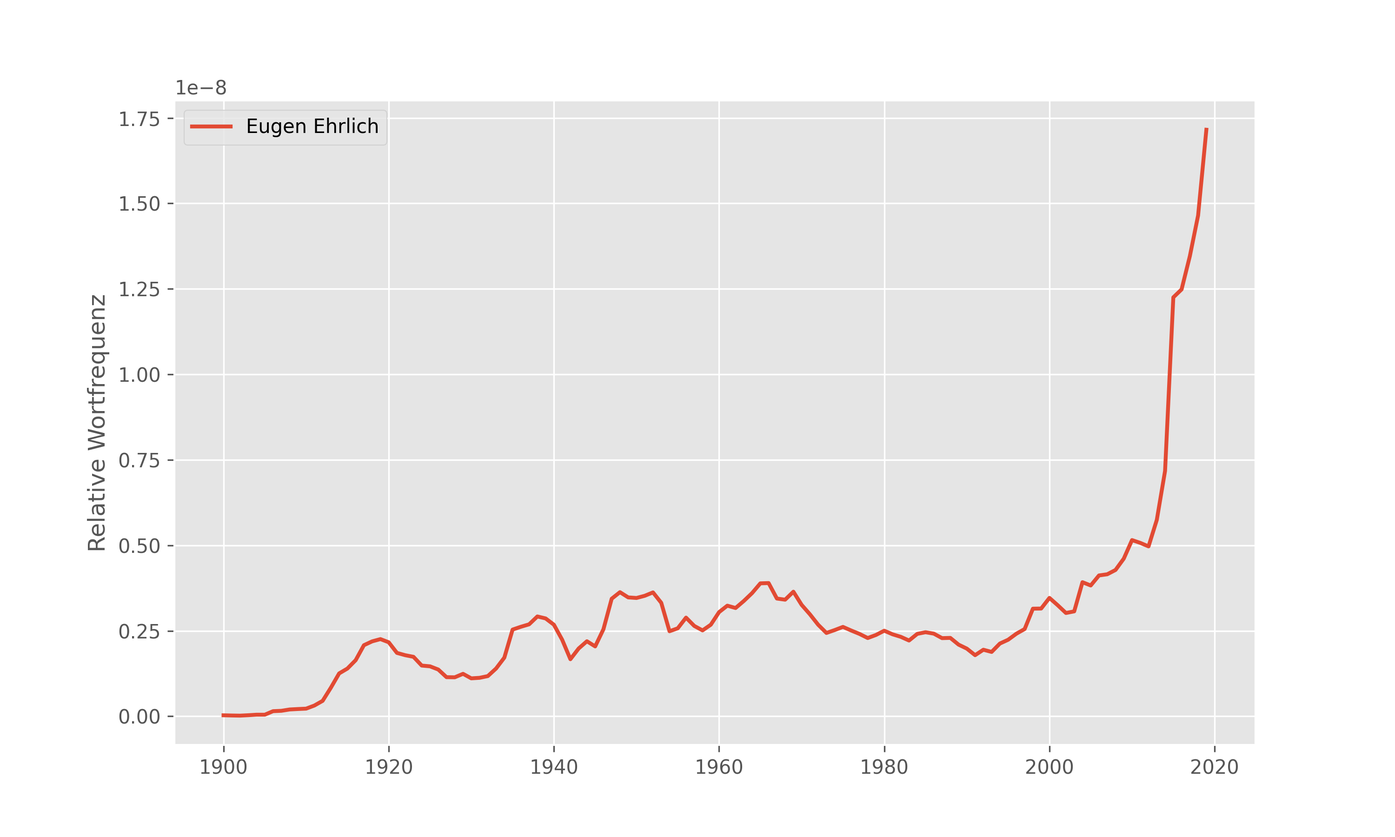
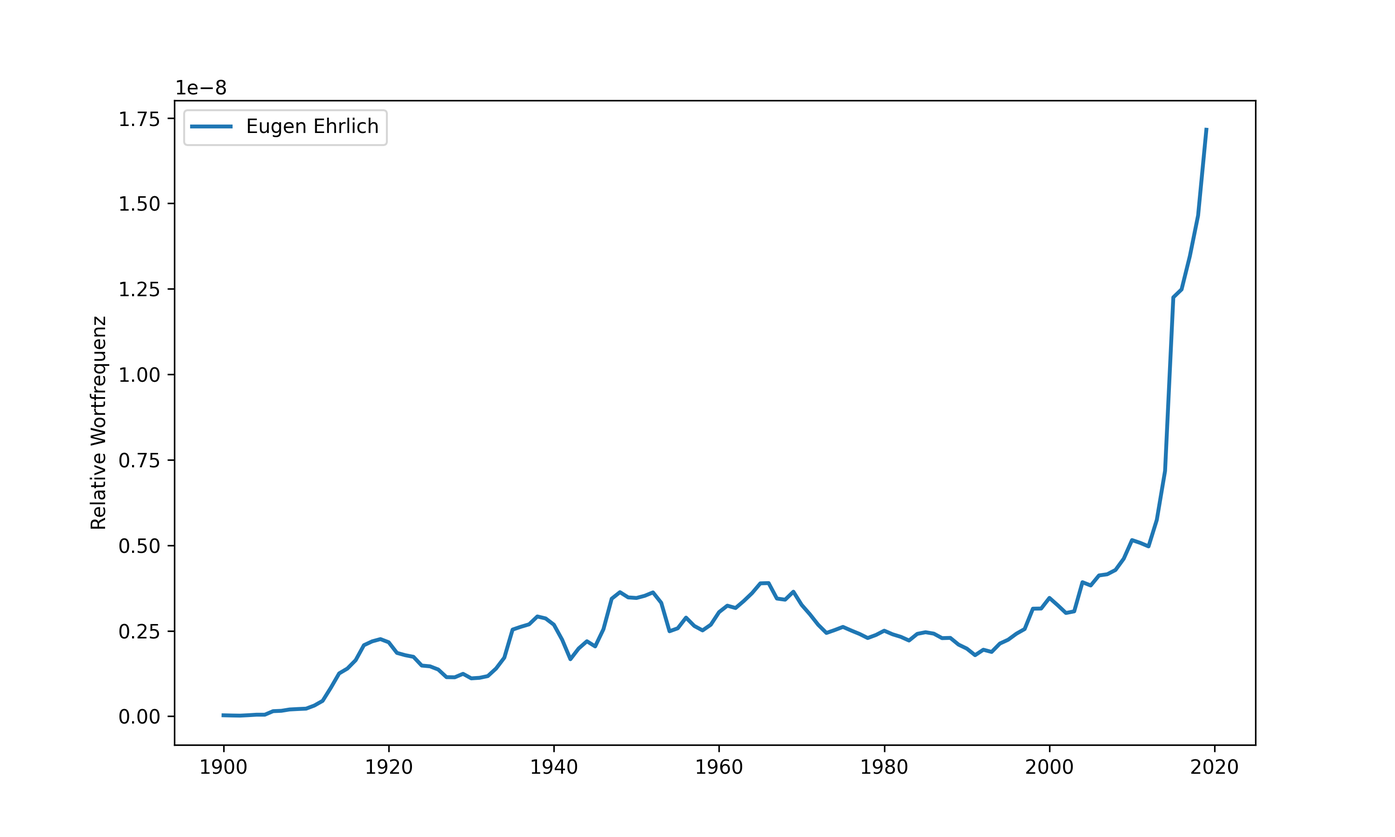
Bessere Lesbarkeit der Grafiken

diff --git a/docs/13-rsoz-lehrbuecher-ehrlich-citation-network.html b/docs/13-rsoz-lehrbuecher-ehrlich-citation-network.html
@@ -302,8 +302,8 @@ function highlightFilter(filter) {
                   
 
                   // parsing and collecting nodes and edges from the python
-                  nodes = new vis.DataSet([{"decade": 1960, "display_name": "ehrlich (1967): recht und leben", "font": {"size": 20}, "group": "ehrlich", "id": 6018, "label": "ehrlich (1967):\n recht und leben", "labelDecade": "1960-1969", "labelQuinq": "1965-1969", "quinq": 1965, "shape": "square", "title": "recht und leben", "type": "chapter", "url": "", "validatedBy": "", "value": 6, "year": 1967}, {"decade": 1980, "display_name": "raiser (1987): rechtssoziologie", "font": {"size": 20}, "group": "citing", "id": 5039, "label": "raiser (1987):\n rechtssoziologie", "labelDecade": "1980-1989", "labelQuinq": "1985-1989", "quinq": 1985, "shape": "dot", "title": "rechtssoziologie", "type": "book", "url": "", "validatedBy": "", "value": 6, "year": 1987}, {"container": "recht und gesellschaft, festschrift f\u00fcr helmut schelsky", "decade": 1970, "display_name": "rehbinder (1978): neues \u00fcber leben und werk von eugen ehrlich", "font": {"size": 20}, "group": "ehrlich", "id": 5664, "label": "rehbinder (1978):\n neues \u00fcber leben und werk von...", "labelDecade": "1970-1979", "labelQuinq": "1975-1979", "quinq": 1975, "shape": "square", "title": "neues \u00fcber leben und werk von eugen ehrlich", "type": "chapter", "url": "", "validatedBy": "", "value": 1, "year": 1978}, {"decade": 1910, "display_name": "ehrlich (1913): grundlegung der soziologie des rechts", "font": {"size": 20}, "group": "ehrlich", "id": 6335, "label": "ehrlich (1913):\n grundlegung der soziologie des...", "labelDecade": "1910-1919", "labelQuinq": "1910-1914", "quinq": 1910, "shape": "square", "title": "grundlegung der soziologie des rechts", "type": "chapter", "url": "", "validatedBy": "", "value": 6, "year": 1913}, {"container": "driz", "decade": 1910, "display_name": "ehrlich (1912): die neuordnung der gerichtsverfassung", "font": {"size": 20}, "group": "cited", "id": 6708, "label": "ehrlich (1912):\n die neuordnung der...", "labelDecade": "1910-1919", "labelQuinq": "1910-1914", "quinq": 1910, "shape": "square", "title": "die neuordnung der gerichtsverfassung", "type": "article-journal", "url": "", "validatedBy": "", "value": 1, "year": 1912}, {"decade": 1910, "display_name": "ehrlich (1916): entgegnung ebd", "font": {"size": 20}, "group": "ehrlich", "id": 5511, "label": "ehrlich (1916):\n entgegnung ebd", "labelDecade": "1910-1919", "labelQuinq": "1915-1919", "quinq": 1915, "shape": "square", "title": "entgegnung ebd", "type": "book", "url": "", "validatedBy": "", "value": 1, "year": 1916}, {"decade": 1960, "display_name": "ehrlich (1966): die juristische logik", "font": {"size": 20}, "group": "ehrlich", "id": 6069, "label": "ehrlich (1966):\n die juristische logik", "labelDecade": "1960-1969", "labelQuinq": "1965-1969", "quinq": 1965, "shape": "square", "title": "die juristische logik", "type": "chapter", "url": "", "validatedBy": "", "value": 1, "year": 1966}, {"decade": 1960, "display_name": "ehrlich (1967): grundlegung der soziologie des rechts (1913", "font": {"size": 20}, "group": "ehrlich", "id": 7445, "label": "ehrlich (1967):\n grundlegung der soziologie des...", "labelDecade": "1960-1969", "labelQuinq": "1965-1969", "quinq": 1965, "shape": "square", "title": "grundlegung der soziologie des rechts (1913", "type": "chapter", "url": "", "validatedBy": "", "value": 8, "year": 1967}, {"decade": 1900, "display_name": "ehrlich (1903): freie rechtsfindung und freie rechtswissenschaft", "font": {"size": 20}, "group": "ehrlich", "id": 7226, "label": "ehrlich (1903):\n freie rechtsfindung und freie...", "labelDecade": "1900-1909", "labelQuinq": "1900-1904", "quinq": 1900, "shape": "square", "title": "freie rechtsfindung und freie rechtswissenschaft", "type": "book", "url": "", "validatedBy": "", "value": 3, "year": 1903}, {"decade": 1930, "display_name": "ehrlich (1936): fundamental principles on the sociology of law", "font": {"size": 20}, "group": "ehrlich", "id": 5137, "label": "ehrlich (1936):\n fundamental principles on the...", "labelDecade": "1930-1939", "labelQuinq": "1935-1939", "quinq": 1935, "shape": "square", "title": "fundamental principles on the sociology of law", "type": "book", "url": "", "validatedBy": "", "value": 1, "year": 1936}, {"decade": 1910, "display_name": "ehrlich (1917): die richterliche rechtsfindung auf grund des rechtssatzes", "font": {"size": 20}, "group": "ehrlich", "id": 2624, "label": "ehrlich (1917):\n die richterliche rechtsfindung...", "labelDecade": "1910-1919", "labelQuinq": "1915-1919", "quinq": 1915, "shape": "square", "title": "die richterliche rechtsfindung auf grund des rechtssatzes. ", "type": "chapter", "url": "", "validatedBy": "", "value": 2, "year": 1917}, {"decade": 1960, "display_name": "ehrlich (1968): grundlegung der soziologie des rechts", "font": {"size": 20}, "group": "ehrlich", "id": 5050, "label": "ehrlich (1968):\n grundlegung der soziologie des...", "labelDecade": "1960-1969", "labelQuinq": "1965-1969", "quinq": 1965, "shape": "square", "title": "grundlegung der soziologie des rechts", "type": "chapter", "url": "", "validatedBy": "", "value": 1, "year": 1968}, {"decade": 1910, "display_name": "ehrlich (1918): juristische logik", "font": {"size": 20}, "group": "cited", "id": 9662, "label": "ehrlich (1918):\n juristische logik", "labelDecade": "1910-1919", "labelQuinq": "1915-1919", "quinq": 1915, "shape": "square", "title": "juristische logik", "type": "chapter", "url": "", "validatedBy": "", "value": 1, "year": 1918}, {"container": "harvard law review", "decade": 1910, "display_name": "ehrlich (1916): montesquieu and sociological jurisprudence", "font": {"size": 20}, "group": "ehrlich", "id": 6042, "label": "ehrlich (1916):\n montesquieu and sociological...", "labelDecade": "1910-1919", "labelQuinq": "1915-1919", "quinq": 1915, "shape": "square", "title": "montesquieu and sociological jurisprudence", "type": "article-journal", "url": "", "validatedBy": "", "value": 1, "year": 1916}, {"container": "schmollers jahrbuch", "decade": 1910, "display_name": "ehrlich (1911): erforschung des lebenden rechts", "font": {"size": 20}, "group": "ehrlich", "id": 821, "label": "ehrlich (1911):\n erforschung des lebenden rechts", "labelDecade": "1910-1919", "labelQuinq": "1910-1914", "quinq": 1910, "shape": "square", "title": "erforschung des lebenden rechts", "type": "chapter", "url": "", "validatedBy": "", "value": 1, "year": 1911}, {"decade": 1890, "display_name": "ehrlich (1899): das zwingende und das nichtzwingende recht im b\u00fcrgerlichen gesetzbuch f\u00fcr das deutsche reich", "font": {"size": 20}, "group": "cited", "id": 209, "label": "ehrlich (1899):\n das zwingende und das...", "labelDecade": "1890-1899", "labelQuinq": "1895-1899", "quinq": 1895, "shape": "square", "title": "das zwingende und das nichtzwingende recht im b\u00fcrgerlichen gesetzbuch f\u00fcr das deutsche reich", "type": "chapter", "url": "", "validatedBy": "", "value": 1, "year": 1899}, {"decade": 1920, "display_name": "ehrlich (1929): grundlegung der soziologie der rechts,", "font": {"size": 20}, "group": "ehrlich", "id": 64, "label": "ehrlich (1929):\n grundlegung der soziologie der...", "labelDecade": "1920-1929", "labelQuinq": "1925-1929", "quinq": 1925, "shape": "square", "title": "grundlegung der soziologie der rechts, unver\u00e4nderter nachdruck derersten auflage 1913", "type": "chapter", "url": "", "validatedBy": "", "value": 1, "year": 1929}, {"decade": 1900, "display_name": "ehrlich (1907): die tatsachen des gewohnheitsrechts", "font": {"size": 20}, "group": "ehrlich", "id": 210, "label": "ehrlich (1907):\n die tatsachen des...", "labelDecade": "1900-1909", "labelQuinq": "1905-1909", "quinq": 1905, "shape": "square", "title": "die tatsachen des gewohnheitsrechts", "type": "chapter", "url": "", "validatedBy": "", "value": 2, "year": 1907}, {"decade": 1900, "display_name": "ehrlich (1909): die rechtsf\u00e4higkeit", "font": {"size": 20}, "group": "cited", "id": 211, "label": "ehrlich (1909):\n die rechtsf\u00e4higkeit", "labelDecade": "1900-1909", "labelQuinq": "1905-1909", "quinq": 1905, "shape": "square", "title": "die rechtsf\u00e4higkeit", "type": "chapter", "url": "", "validatedBy": "", "value": 2, "year": 1909}, {"decade": 1880, "display_name": "ehrlich (1888): \u00fcber l\u00fccken im recht", "font": {"size": 20}, "group": "cited", "id": 8265, "label": "ehrlich (1888):\n \u00fcber l\u00fccken im recht", "labelDecade": "1880-1889", "labelQuinq": "1885-1889", "quinq": 1885, "shape": "square", "title": "\u00fcber l\u00fccken im recht", "type": "chapter", "url": "", "validatedBy": "", "value": 1, "year": 1888}, {"decade": 1910, "display_name": "ehrlich (1912): das lebende recht der v\u00f6lker der bukowina", "font": {"size": 20}, "group": "ehrlich", "id": 7230, "label": "ehrlich (1912):\n das lebende recht der v\u00f6lker...", "labelDecade": "1910-1919", "labelQuinq": "1910-1914", "quinq": 1910, "shape": "square", "title": "das lebende recht der v\u00f6lker der bukowina", "type": "book", "url": "", "validatedBy": "", "value": 1, "year": 1912}, {"container": "\u00f6sterreichische richter-zeitung", "decade": 1900, "display_name": "ehrlich (1906): soziologie und jurisprudenz", "font": {"size": 20}, "group": "ehrlich", "id": 7228, "label": "ehrlich (1906):\n soziologie und jurisprudenz", "labelDecade": "1900-1909", "labelQuinq": "1905-1909", "quinq": 1905, "shape": "square", "title": "soziologie und jurisprudenz", "type": "chapter", "url": "", "validatedBy": "", "value": 1, "year": 1906}, {"decade": 1980, "display_name": "ehrlich (1989): grundlegung der soziologie des rechts, 4.auf", "font": {"size": 20}, "group": "cited", "id": 6613, "label": "ehrlich (1989):\n grundlegung der soziologie des...", "labelDecade": "1980-1989", "labelQuinq": "1985-1989", "quinq": 1985, "shape": "square", "title": "grundlegung der soziologie des rechts, 4.auf", "type": "chapter", "url": "", "validatedBy": "", "value": 1, "year": 1989}, {"decade": 1980, "display_name": "ehrlich (1986): gesetz und lebendes recht", "font": {"size": 20}, "group": "cited", "id": 6614, "label": "ehrlich (1986):\n gesetz und lebendes recht", "labelDecade": "1980-1989", "labelQuinq": "1985-1989", "quinq": 1985, "shape": "square", "title": "gesetz und lebendes recht", "type": "chapter", "url": "", "validatedBy": "", "value": 1, "year": 1986}, {"decade": 1970, "display_name": "raiser (1973): einf\u00fchrung in die rechtssoziologie", "font": {"size": 20}, "group": "citing", "id": 456, "label": "raiser (1973):\n einf\u00fchrung in die rechtssoziologie", "labelDecade": "1970-1979", "labelQuinq": "1970-1974", "quinq": 1970, "shape": "dot", "title": "einf\u00fchrung in die rechtssoziologie", "type": "chapter", "url": "", "validatedBy": "", "value": 2, "year": 1973}, {"decade": 1970, "display_name": "girtler (1976): rechtssoziologie", "font": {"size": 20}, "group": "citing", "id": 152, "label": "girtler (1976):\n rechtssoziologie", "labelDecade": "1970-1979", "labelQuinq": "1975-1979", "quinq": 1975, "shape": "dot", "title": "rechtssoziologie", "type": "book", "url": "", "validatedBy": "", "value": 5, "year": 1976}, {"decade": 1980, "display_name": "rottleuthner (1987): einf\u00fchrung in die rechtssoziologie", "font": {"size": 20}, "group": "citing", "id": 6459, "label": "rottleuthner (1987):\n einf\u00fchrung in die...", "labelDecade": "1980-1989", "labelQuinq": "1985-1989", "quinq": 1985, "shape": "dot", "title": "einf\u00fchrung in die rechtssoziologie", "type": "book", "url": "", "validatedBy": "", "value": 5, "year": 1987}, {"decade": 1980, "display_name": "rehbinder (1989): rechtssoziologie", "font": {"size": 20}, "group": "citing", "id": 6104, "label": "rehbinder (1989):\n rechtssoziologie", "labelDecade": "1980-1989", "labelQuinq": "1985-1989", "quinq": 1985, "shape": "dot", "title": "rechtssoziologie", "type": "book", "url": "", "validatedBy": "", "value": 6, "year": 1989}, {"decade": 1970, "display_name": "rehbinder (1977): rechtssoziologie", "font": {"size": 20}, "group": "citing", "id": 2527, "label": "rehbinder (1977):\n rechtssoziologie", "labelDecade": "1970-1979", "labelQuinq": "1975-1979", "quinq": 1975, "shape": "dot", "title": "rechtssoziologie", "type": "chapter", "url": "", "validatedBy": "", "value": 4, "year": 1977}, {"decade": 1980, "display_name": "r\u00f6hl (1987): rechtssoziologie ein lehrbuch", "font": {"size": 20}, "group": "citing", "id": 8241, "label": "r\u00f6hl (1987):\n rechtssoziologie ein lehrbuch", "labelDecade": "1980-1989", "labelQuinq": "1985-1989", "quinq": 1985, "shape": "dot", "title": "rechtssoziologie ein lehrbuch", "type": "book", "url": "", "validatedBy": "", "value": 6, "year": 1987}, {"decade": 1980, "display_name": "ki\u00dfler (1984): recht und gesellschaft", "font": {"size": 20}, "group": "citing", "id": 2377, "label": "ki\u00dfler (1984):\n recht und gesellschaft", "labelDecade": "1980-1989", "labelQuinq": "1980-1984", "quinq": 1980, "shape": "dot", "title": "recht und gesellschaft", "type": "book", "url": "", "validatedBy": "", "value": 1, "year": 1984}, {"decade": 1970, "display_name": "gurvitch (1974): grundz\u00fcge der soziologie des rechts", "font": {"size": 20}, "group": "citing", "id": 627, "label": "gurvitch (1974):\n grundz\u00fcge der soziologie des...", "labelDecade": "1970-1979", "labelQuinq": "1970-1974", "quinq": 1970, "shape": "dot", "title": "grundz\u00fcge der soziologie des rechts", "type": "book", "url": "", "validatedBy": "", "value": 3, "year": 1974}, {"decade": 1970, "display_name": "dux (1978): rechtssoziologie eine einf\u00fchrung", "font": {"size": 20}, "group": "citing", "id": 6317, "label": "dux (1978):\n rechtssoziologie eine einf\u00fchrung", "labelDecade": "1970-1979", "labelQuinq": "1975-1979", "quinq": 1975, "shape": "dot", "title": "rechtssoziologie eine einf\u00fchrung", "type": "book", "url": "", "validatedBy": "", "value": 2, "year": 1978}, {"decade": 1970, "display_name": "raiser (1972): einf\u00fchrung in die rechtssoziologie", "font": {"size": 20}, "group": "citing", "id": 7759, "label": "raiser (1972):\n einf\u00fchrung in die rechtssoziologie", "labelDecade": "1970-1979", "labelQuinq": "1970-1974", "quinq": 1970, "shape": "dot", "title": "einf\u00fchrung in die rechtssoziologie", "type": "chapter", "url": "", "validatedBy": "", "value": 1, "year": 1972}, {"decade": 1980, "display_name": "luhmann (1983): rechtssoziologie", "font": {"size": 20}, "group": "citing", "id": 2569, "label": "luhmann (1983):\n rechtssoziologie", "labelDecade": "1980-1989", "labelQuinq": "1980-1984", "quinq": 1980, "shape": "dot", "title": "rechtssoziologie", "type": "book", "url": "", "validatedBy": "", "value": 2, "year": 1983}, {"decade": 1970, "display_name": "ryffel (1974): rechtssoziologie. eine systematische orientierung", "font": {"size": 20}, "group": "citing", "id": 2531, "label": "ryffel (1974):\n rechtssoziologie. eine...", "labelDecade": "1970-1979", "labelQuinq": "1970-1974", "quinq": 1970, "shape": "dot", "title": "rechtssoziologie. eine systematische orientierung", "type": "chapter", "url": "", "validatedBy": "", "value": 1, "year": 1974}, {"decade": 1960, "display_name": "geiger (1964): vorstudien zu einer soziologie des rechts", "font": {"size": 20}, "group": "citing", "id": 6427, "label": "geiger (1964):\n vorstudien zu einer soziologie...", "labelDecade": "1960-1969", "labelQuinq": "1960-1964", "quinq": 1960, "shape": "dot", "title": "vorstudien zu einer soziologie des rechts", "type": "chapter", "url": "", "validatedBy": "", "value": 1, "year": 1964}]);
-                  edges = new vis.DataSet([{"arrows": "to", "from": 5039, "group": "CITES", "label": null, "title": "CITES", "to": 6018, "width": 3}, {"arrows": "to", "from": 5039, "group": "CITES", "label": null, "title": "CITES", "to": 5664, "width": 3}, {"arrows": "to", "from": 5039, "group": "CITES", "label": null, "title": "CITES", "to": 5511, "width": 3}, {"arrows": "to", "from": 5039, "group": "CITES", "label": null, "title": "CITES", "to": 7445, "width": 3}, {"arrows": "to", "from": 5039, "group": "CITES", "label": null, "title": "CITES", "to": 5137, "width": 3}, {"arrows": "to", "from": 5039, "group": "CITES", "label": null, "title": "CITES", "to": 5050, "width": 3}, {"arrows": "to", "from": 456, "group": "CITES", "label": null, "title": "CITES", "to": 6018, "width": 3}, {"arrows": "to", "from": 456, "group": "CITES", "label": null, "title": "CITES", "to": 7445, "width": 3}, {"arrows": "to", "from": 152, "group": "CITES", "label": null, "title": "CITES", "to": 6018, "width": 3}, {"arrows": "to", "from": 152, "group": "CITES", "label": null, "title": "CITES", "to": 7445, "width": 3}, {"arrows": "to", "from": 152, "group": "CITES", "label": null, "title": "CITES", "to": 209, "width": 3}, {"arrows": "to", "from": 152, "group": "CITES", "label": null, "title": "CITES", "to": 210, "width": 3}, {"arrows": "to", "from": 152, "group": "CITES", "label": null, "title": "CITES", "to": 211, "width": 3}, {"arrows": "to", "from": 6459, "group": "CITES", "label": null, "title": "CITES", "to": 6018, "width": 3}, {"arrows": "to", "from": 6459, "group": "CITES", "label": null, "title": "CITES", "to": 6335, "width": 3}, {"arrows": "to", "from": 6459, "group": "CITES", "label": null, "title": "CITES", "to": 7226, "width": 3}, {"arrows": "to", "from": 6459, "group": "CITES", "label": null, "title": "CITES", "to": 7230, "width": 3}, {"arrows": "to", "from": 6459, "group": "CITES", "label": null, "title": "CITES", "to": 7228, "width": 3}, {"arrows": "to", "from": 6104, "group": "CITES", "label": null, "title": "CITES", "to": 6018, "width": 3}, {"arrows": "to", "from": 6104, "group": "CITES", "label": null, "title": "CITES", "to": 6335, "width": 3}, {"arrows": "to", "from": 6104, "group": "CITES", "label": null, "title": "CITES", "to": 6708, "width": 3}, {"arrows": "to", "from": 6104, "group": "CITES", "label": null, "title": "CITES", "to": 211, "width": 3}, {"arrows": "to", "from": 6104, "group": "CITES", "label": null, "title": "CITES", "to": 6613, "width": 3}, {"arrows": "to", "from": 6104, "group": "CITES", "label": null, "title": "CITES", "to": 6614, "width": 3}, {"arrows": "to", "from": 2527, "group": "CITES", "label": null, "title": "CITES", "to": 6018, "width": 3}, {"arrows": "to", "from": 2527, "group": "CITES", "label": null, "title": "CITES", "to": 6069, "width": 3}, {"arrows": "to", "from": 2527, "group": "CITES", "label": null, "title": "CITES", "to": 7445, "width": 3}, {"arrows": "to", "from": 2527, "group": "CITES", "label": null, "title": "CITES", "to": 6042, "width": 3}, {"arrows": "to", "from": 8241, "group": "CITES", "label": null, "title": "CITES", "to": 6335, "width": 3}, {"arrows": "to", "from": 8241, "group": "CITES", "label": null, "title": "CITES", "to": 7445, "width": 3}, {"arrows": "to", "from": 8241, "group": "CITES", "label": null, "title": "CITES", "to": 7226, "width": 3}, {"arrows": "to", "from": 8241, "group": "CITES", "label": null, "title": "CITES", "to": 2624, "width": 3}, {"arrows": "to", "from": 8241, "group": "CITES", "label": null, "title": "CITES", "to": 9662, "width": 3}, {"arrows": "to", "from": 8241, "group": "CITES", "label": null, "title": "CITES", "to": 8265, "width": 3}, {"arrows": "to", "from": 2377, "group": "CITES", "label": null, "title": "CITES", "to": 6335, "width": 3}, {"arrows": "to", "from": 627, "group": "CITES", "label": null, "title": "CITES", "to": 6335, "width": 3}, {"arrows": "to", "from": 627, "group": "CITES", "label": null, "title": "CITES", "to": 821, "width": 3}, {"arrows": "to", "from": 627, "group": "CITES", "label": null, "title": "CITES", "to": 210, "width": 3}, {"arrows": "to", "from": 6317, "group": "CITES", "label": null, "title": "CITES", "to": 6335, "width": 3}, {"arrows": "to", "from": 6317, "group": "CITES", "label": null, "title": "CITES", "to": 7445, "width": 3}, {"arrows": "to", "from": 7759, "group": "CITES", "label": null, "title": "CITES", "to": 7445, "width": 3}, {"arrows": "to", "from": 2569, "group": "CITES", "label": null, "title": "CITES", "to": 7445, "width": 3}, {"arrows": "to", "from": 2569, "group": "CITES", "label": null, "title": "CITES", "to": 2624, "width": 3}, {"arrows": "to", "from": 2531, "group": "CITES", "label": null, "title": "CITES", "to": 7226, "width": 3}, {"arrows": "to", "from": 6427, "group": "CITES", "label": null, "title": "CITES", "to": 64, "width": 3}]);
+                  nodes = new vis.DataSet([{"display_name": "ehrlich (1967): recht und leben", "font": {"size": 20}, "group": "cited", "id": 6018, "label": "ehrlich (1967):\n recht und leben", "shape": "square", "title": "recht und leben", "type": "chapter", "url": "", "validatedBy": "", "value": 6, "year": 1967}, {"display_name": "raiser (1987): rechtssoziologie", "font": {"size": 20}, "group": "citing", "id": 5039, "label": "raiser (1987):\n rechtssoziologie", "shape": "dot", "title": "rechtssoziologie", "type": "book", "url": "", "validatedBy": "", "value": 5, "year": 1987}, {"display_name": "ehrlich (1913): grundlegung der soziologie des rechts", "font": {"size": 20}, "group": "cited", "id": 6335, "label": "ehrlich (1913):\n grundlegung der soziologie des...", "shape": "square", "title": "grundlegung der soziologie des rechts", "type": "chapter", "url": "", "validatedBy": "", "value": 6, "year": 1913}, {"container": "driz", "display_name": "ehrlich (1912): die neuordnung der gerichtsverfassung", "font": {"size": 20}, "group": "cited", "id": 6708, "label": "ehrlich (1912):\n die neuordnung der...", "shape": "square", "title": "die neuordnung der gerichtsverfassung", "type": "article-journal", "url": "", "validatedBy": "", "value": 1, "year": 1912}, {"display_name": "ehrlich (1916): entgegnung ebd", "font": {"size": 20}, "group": "cited", "id": 5511, "label": "ehrlich (1916):\n entgegnung ebd", "shape": "square", "title": "entgegnung ebd", "type": "book", "url": "", "validatedBy": "", "value": 1, "year": 1916}, {"display_name": "ehrlich (1966): die juristische logik", "font": {"size": 20}, "group": "cited", "id": 6069, "label": "ehrlich (1966):\n die juristische logik", "shape": "square", "title": "die juristische logik", "type": "chapter", "url": "", "validatedBy": "", "value": 1, "year": 1966}, {"display_name": "ehrlich (1967): grundlegung der soziologie des rechts (1913", "font": {"size": 20}, "group": "cited", "id": 7445, "label": "ehrlich (1967):\n grundlegung der soziologie des...", "shape": "square", "title": "grundlegung der soziologie des rechts (1913", "type": "chapter", "url": "", "validatedBy": "", "value": 8, "year": 1967}, {"display_name": "ehrlich (1903): freie rechtsfindung und freie rechtswissenschaft", "font": {"size": 20}, "group": "cited", "id": 7226, "label": "ehrlich (1903):\n freie rechtsfindung und freie...", "shape": "square", "title": "freie rechtsfindung und freie rechtswissenschaft", "type": "book", "url": "", "validatedBy": "", "value": 3, "year": 1903}, {"display_name": "ehrlich (1936): fundamental principles on the sociology of law", "font": {"size": 20}, "group": "cited", "id": 5137, "label": "ehrlich (1936):\n fundamental principles on the...", "shape": "square", "title": "fundamental principles on the sociology of law", "type": "book", "url": "", "validatedBy": "", "value": 1, "year": 1936}, {"display_name": "ehrlich (1917): die richterliche rechtsfindung auf grund des rechtssatzes", "font": {"size": 20}, "group": "cited", "id": 2624, "label": "ehrlich (1917):\n die richterliche rechtsfindung...", "shape": "square", "title": "die richterliche rechtsfindung auf grund des rechtssatzes. ", "type": "chapter", "url": "", "validatedBy": "", "value": 2, "year": 1917}, {"display_name": "ehrlich (1968): grundlegung der soziologie des rechts", "font": {"size": 20}, "group": "cited", "id": 5050, "label": "ehrlich (1968):\n grundlegung der soziologie des...", "shape": "square", "title": "grundlegung der soziologie des rechts", "type": "chapter", "url": "", "validatedBy": "", "value": 1, "year": 1968}, {"display_name": "ehrlich (1918): juristische logik", "font": {"size": 20}, "group": "cited", "id": 9662, "label": "ehrlich (1918):\n juristische logik", "shape": "square", "title": "juristische logik", "type": "chapter", "url": "", "validatedBy": "", "value": 1, "year": 1918}, {"container": "harvard law review", "display_name": "ehrlich (1916): montesquieu and sociological jurisprudence", "font": {"size": 20}, "group": "cited", "id": 6042, "label": "ehrlich (1916):\n montesquieu and sociological...", "shape": "square", "title": "montesquieu and sociological jurisprudence", "type": "article-journal", "url": "", "validatedBy": "", "value": 1, "year": 1916}, {"container": "schmollers jahrbuch", "display_name": "ehrlich (1911): erforschung des lebenden rechts", "font": {"size": 20}, "group": "cited", "id": 821, "label": "ehrlich (1911):\n erforschung des lebenden rechts", "shape": "square", "title": "erforschung des lebenden rechts", "type": "chapter", "url": "", "validatedBy": "", "value": 1, "year": 1911}, {"display_name": "ehrlich (1899): das zwingende und das nichtzwingende recht im b\u00fcrgerlichen gesetzbuch f\u00fcr das deutsche reich", "font": {"size": 20}, "group": "cited", "id": 209, "label": "ehrlich (1899):\n das zwingende und das...", "shape": "square", "title": "das zwingende und das nichtzwingende recht im b\u00fcrgerlichen gesetzbuch f\u00fcr das deutsche reich", "type": "chapter", "url": "", "validatedBy": "", "value": 1, "year": 1899}, {"display_name": "ehrlich (1929): grundlegung der soziologie der rechts,", "font": {"size": 20}, "group": "cited", "id": 64, "label": "ehrlich (1929):\n grundlegung der soziologie der...", "shape": "square", "title": "grundlegung der soziologie der rechts, unver\u00e4nderter nachdruck derersten auflage 1913", "type": "chapter", "url": "", "validatedBy": "", "value": 1, "year": 1929}, {"display_name": "ehrlich (1907): die tatsachen des gewohnheitsrechts", "font": {"size": 20}, "group": "cited", "id": 210, "label": "ehrlich (1907):\n die tatsachen des...", "shape": "square", "title": "die tatsachen des gewohnheitsrechts", "type": "chapter", "url": "", "validatedBy": "", "value": 2, "year": 1907}, {"display_name": "ehrlich (1909): die rechtsf\u00e4higkeit", "font": {"size": 20}, "group": "cited", "id": 211, "label": "ehrlich (1909):\n die rechtsf\u00e4higkeit", "shape": "square", "title": "die rechtsf\u00e4higkeit", "type": "chapter", "url": "", "validatedBy": "", "value": 2, "year": 1909}, {"display_name": "ehrlich (1888): \u00fcber l\u00fccken im recht", "font": {"size": 20}, "group": "cited", "id": 8265, "label": "ehrlich (1888):\n \u00fcber l\u00fccken im recht", "shape": "square", "title": "\u00fcber l\u00fccken im recht", "type": "chapter", "url": "", "validatedBy": "", "value": 1, "year": 1888}, {"display_name": "ehrlich (1912): das lebende recht der v\u00f6lker der bukowina", "font": {"size": 20}, "group": "cited", "id": 7230, "label": "ehrlich (1912):\n das lebende recht der v\u00f6lker...", "shape": "square", "title": "das lebende recht der v\u00f6lker der bukowina", "type": "book", "url": "", "validatedBy": "", "value": 1, "year": 1912}, {"container": "\u00f6sterreichische richter-zeitung", "display_name": "ehrlich (1906): soziologie und jurisprudenz", "font": {"size": 20}, "group": "cited", "id": 7228, "label": "ehrlich (1906):\n soziologie und jurisprudenz", "shape": "square", "title": "soziologie und jurisprudenz", "type": "chapter", "url": "", "validatedBy": "", "value": 1, "year": 1906}, {"display_name": "ehrlich (1989): grundlegung der soziologie des rechts, 4.auf", "font": {"size": 20}, "group": "cited", "id": 6613, "label": "ehrlich (1989):\n grundlegung der soziologie des...", "shape": "square", "title": "grundlegung der soziologie des rechts, 4.auf", "type": "chapter", "url": "", "validatedBy": "", "value": 1, "year": 1989}, {"display_name": "ehrlich (1986): gesetz und lebendes recht", "font": {"size": 20}, "group": "cited", "id": 6614, "label": "ehrlich (1986):\n gesetz und lebendes recht", "shape": "square", "title": "gesetz und lebendes recht", "type": "chapter", "url": "", "validatedBy": "", "value": 1, "year": 1986}, {"display_name": "raiser (1973): einf\u00fchrung in die rechtssoziologie", "font": {"size": 20}, "group": "citing", "id": 456, "label": "raiser (1973):\n einf\u00fchrung in die rechtssoziologie", "shape": "dot", "title": "einf\u00fchrung in die rechtssoziologie", "type": "chapter", "url": "", "validatedBy": "", "value": 2, "year": 1973}, {"display_name": "girtler (1976): rechtssoziologie", "font": {"size": 20}, "group": "citing", "id": 152, "label": "girtler (1976):\n rechtssoziologie", "shape": "dot", "title": "rechtssoziologie", "type": "book", "url": "", "validatedBy": "", "value": 5, "year": 1976}, {"display_name": "rottleuthner (1987): einf\u00fchrung in die rechtssoziologie", "font": {"size": 20}, "group": "citing", "id": 6459, "label": "rottleuthner (1987):\n einf\u00fchrung in die...", "shape": "dot", "title": "einf\u00fchrung in die rechtssoziologie", "type": "book", "url": "", "validatedBy": "", "value": 5, "year": 1987}, {"display_name": "rehbinder (1989): rechtssoziologie", "font": {"size": 20}, "group": "citing", "id": 6104, "label": "rehbinder (1989):\n rechtssoziologie", "shape": "dot", "title": "rechtssoziologie", "type": "book", "url": "", "validatedBy": "", "value": 6, "year": 1989}, {"display_name": "rehbinder (1977): rechtssoziologie", "font": {"size": 20}, "group": "citing", "id": 2527, "label": "rehbinder (1977):\n rechtssoziologie", "shape": "dot", "title": "rechtssoziologie", "type": "chapter", "url": "", "validatedBy": "", "value": 4, "year": 1977}, {"display_name": "r\u00f6hl (1987): rechtssoziologie ein lehrbuch", "font": {"size": 20}, "group": "citing", "id": 8241, "label": "r\u00f6hl (1987):\n rechtssoziologie ein lehrbuch", "shape": "dot", "title": "rechtssoziologie ein lehrbuch", "type": "book", "url": "", "validatedBy": "", "value": 6, "year": 1987}, {"display_name": "ki\u00dfler (1984): recht und gesellschaft", "font": {"size": 20}, "group": "citing", "id": 2377, "label": "ki\u00dfler (1984):\n recht und gesellschaft", "shape": "dot", "title": "recht und gesellschaft", "type": "book", "url": "", "validatedBy": "", "value": 1, "year": 1984}, {"display_name": "gurvitch (1974): grundz\u00fcge der soziologie des rechts", "font": {"size": 20}, "group": "citing", "id": 627, "label": "gurvitch (1974):\n grundz\u00fcge der soziologie des...", "shape": "dot", "title": "grundz\u00fcge der soziologie des rechts", "type": "book", "url": "", "validatedBy": "", "value": 3, "year": 1974}, {"display_name": "dux (1978): rechtssoziologie eine einf\u00fchrung", "font": {"size": 20}, "group": "citing", "id": 6317, "label": "dux (1978):\n rechtssoziologie eine einf\u00fchrung", "shape": "dot", "title": "rechtssoziologie eine einf\u00fchrung", "type": "book", "url": "", "validatedBy": "", "value": 2, "year": 1978}, {"display_name": "raiser (1972): einf\u00fchrung in die rechtssoziologie", "font": {"size": 20}, "group": "citing", "id": 7759, "label": "raiser (1972):\n einf\u00fchrung in die rechtssoziologie", "shape": "dot", "title": "einf\u00fchrung in die rechtssoziologie", "type": "chapter", "url": "", "validatedBy": "", "value": 1, "year": 1972}, {"display_name": "luhmann (1983): rechtssoziologie", "font": {"size": 20}, "group": "citing", "id": 2569, "label": "luhmann (1983):\n rechtssoziologie", "shape": "dot", "title": "rechtssoziologie", "type": "book", "url": "", "validatedBy": "", "value": 2, "year": 1983}, {"display_name": "ryffel (1974): rechtssoziologie. eine systematische orientierung", "font": {"size": 20}, "group": "citing", "id": 2531, "label": "ryffel (1974):\n rechtssoziologie. eine...", "shape": "dot", "title": "rechtssoziologie. eine systematische orientierung", "type": "chapter", "url": "", "validatedBy": "", "value": 1, "year": 1974}, {"display_name": "geiger (1964): vorstudien zu einer soziologie des rechts", "font": {"size": 20}, "group": "citing", "id": 6427, "label": "geiger (1964):\n vorstudien zu einer soziologie...", "shape": "dot", "title": "vorstudien zu einer soziologie des rechts", "type": "chapter", "url": "", "validatedBy": "", "value": 1, "year": 1964}]);
+                  edges = new vis.DataSet([{"arrows": "to", "from": 5039, "group": "CITES", "label": null, "title": "CITES", "to": 6018, "width": 3}, {"arrows": "to", "from": 5039, "group": "CITES", "label": null, "title": "CITES", "to": 5511, "width": 3}, {"arrows": "to", "from": 5039, "group": "CITES", "label": null, "title": "CITES", "to": 7445, "width": 3}, {"arrows": "to", "from": 5039, "group": "CITES", "label": null, "title": "CITES", "to": 5137, "width": 3}, {"arrows": "to", "from": 5039, "group": "CITES", "label": null, "title": "CITES", "to": 5050, "width": 3}, {"arrows": "to", "from": 456, "group": "CITES", "label": null, "title": "CITES", "to": 6018, "width": 3}, {"arrows": "to", "from": 456, "group": "CITES", "label": null, "title": "CITES", "to": 7445, "width": 3}, {"arrows": "to", "from": 152, "group": "CITES", "label": null, "title": "CITES", "to": 6018, "width": 3}, {"arrows": "to", "from": 152, "group": "CITES", "label": null, "title": "CITES", "to": 7445, "width": 3}, {"arrows": "to", "from": 152, "group": "CITES", "label": null, "title": "CITES", "to": 209, "width": 3}, {"arrows": "to", "from": 152, "group": "CITES", "label": null, "title": "CITES", "to": 210, "width": 3}, {"arrows": "to", "from": 152, "group": "CITES", "label": null, "title": "CITES", "to": 211, "width": 3}, {"arrows": "to", "from": 6459, "group": "CITES", "label": null, "title": "CITES", "to": 6018, "width": 3}, {"arrows": "to", "from": 6459, "group": "CITES", "label": null, "title": "CITES", "to": 6335, "width": 3}, {"arrows": "to", "from": 6459, "group": "CITES", "label": null, "title": "CITES", "to": 7226, "width": 3}, {"arrows": "to", "from": 6459, "group": "CITES", "label": null, "title": "CITES", "to": 7230, "width": 3}, {"arrows": "to", "from": 6459, "group": "CITES", "label": null, "title": "CITES", "to": 7228, "width": 3}, {"arrows": "to", "from": 6104, "group": "CITES", "label": null, "title": "CITES", "to": 6018, "width": 3}, {"arrows": "to", "from": 6104, "group": "CITES", "label": null, "title": "CITES", "to": 6335, "width": 3}, {"arrows": "to", "from": 6104, "group": "CITES", "label": null, "title": "CITES", "to": 6708, "width": 3}, {"arrows": "to", "from": 6104, "group": "CITES", "label": null, "title": "CITES", "to": 211, "width": 3}, {"arrows": "to", "from": 6104, "group": "CITES", "label": null, "title": "CITES", "to": 6613, "width": 3}, {"arrows": "to", "from": 6104, "group": "CITES", "label": null, "title": "CITES", "to": 6614, "width": 3}, {"arrows": "to", "from": 2527, "group": "CITES", "label": null, "title": "CITES", "to": 6018, "width": 3}, {"arrows": "to", "from": 2527, "group": "CITES", "label": null, "title": "CITES", "to": 6069, "width": 3}, {"arrows": "to", "from": 2527, "group": "CITES", "label": null, "title": "CITES", "to": 7445, "width": 3}, {"arrows": "to", "from": 2527, "group": "CITES", "label": null, "title": "CITES", "to": 6042, "width": 3}, {"arrows": "to", "from": 8241, "group": "CITES", "label": null, "title": "CITES", "to": 6335, "width": 3}, {"arrows": "to", "from": 8241, "group": "CITES", "label": null, "title": "CITES", "to": 7445, "width": 3}, {"arrows": "to", "from": 8241, "group": "CITES", "label": null, "title": "CITES", "to": 7226, "width": 3}, {"arrows": "to", "from": 8241, "group": "CITES", "label": null, "title": "CITES", "to": 2624, "width": 3}, {"arrows": "to", "from": 8241, "group": "CITES", "label": null, "title": "CITES", "to": 9662, "width": 3}, {"arrows": "to", "from": 8241, "group": "CITES", "label": null, "title": "CITES", "to": 8265, "width": 3}, {"arrows": "to", "from": 2377, "group": "CITES", "label": null, "title": "CITES", "to": 6335, "width": 3}, {"arrows": "to", "from": 627, "group": "CITES", "label": null, "title": "CITES", "to": 6335, "width": 3}, {"arrows": "to", "from": 627, "group": "CITES", "label": null, "title": "CITES", "to": 821, "width": 3}, {"arrows": "to", "from": 627, "group": "CITES", "label": null, "title": "CITES", "to": 210, "width": 3}, {"arrows": "to", "from": 6317, "group": "CITES", "label": null, "title": "CITES", "to": 6335, "width": 3}, {"arrows": "to", "from": 6317, "group": "CITES", "label": null, "title": "CITES", "to": 7445, "width": 3}, {"arrows": "to", "from": 7759, "group": "CITES", "label": null, "title": "CITES", "to": 7445, "width": 3}, {"arrows": "to", "from": 2569, "group": "CITES", "label": null, "title": "CITES", "to": 7445, "width": 3}, {"arrows": "to", "from": 2569, "group": "CITES", "label": null, "title": "CITES", "to": 2624, "width": 3}, {"arrows": "to", "from": 2531, "group": "CITES", "label": null, "title": "CITES", "to": 7226, "width": 3}, {"arrows": "to", "from": 6427, "group": "CITES", "label": null, "title": "CITES", "to": 64, "width": 3}]);
 
                   nodeColors = {};
                   allNodes = nodes.get({ returnType: "Object" });

diff --git a/docs/06-venues-citing-ehrlich.html b/docs/06-venues-citing-ehrlich.html
@@ -222,7 +222,7 @@ function highlightFilter(filter) {
             
         
 <center>
-<h1>None</h1>
+<h1></h1>
 </center>
 
 <!-- <link rel="stylesheet" href="../node_modules/vis/dist/vis.min.css" type="text/css" />
@@ -241,7 +241,7 @@ function highlightFilter(filter) {
 
 
         <center>
-          <h1>None</h1>
+          <h1></h1>
         </center>
         <style type="text/css">
 
@@ -314,44 +314,7 @@ function highlightFilter(filter) {
                   // adding nodes and edges to the graph
                   data = {nodes: nodes, edges: edges};
 
-                  var options = {
-    "configure": {
-        "enabled": false
-    },
-    "edges": {
-        "color": {
-            "inherit": true
-        },
-        "smooth": {
-            "enabled": true,
-            "type": "dynamic"
-        }
-    },
-    "interaction": {
-        "dragNodes": true,
-        "hideEdgesOnDrag": false,
-        "hideNodesOnDrag": false
-    },
-    "physics": {
-        "enabled": true,
-        "forceAtlas2Based": {
-            "avoidOverlap": 0.7,
-            "centralGravity": 0.01,
-            "damping": 1,
-            "gravitationalConstant": -50,
-            "springConstant": 0.08,
-            "springLength": 100
-        },
-        "solver": "forceAtlas2Based",
-        "stabilization": {
-            "enabled": true,
-            "fit": true,
-            "iterations": 1000,
-            "onlyDynamicEdges": false,
-            "updateInterval": 50
-        }
-    }
-};
+                  var options = {"configure": {"enabled": false}, "edges": {"color": {"inherit": true}, "smooth": {"enabled": true, "type": "dynamic"}}, "interaction": {"dragNodes": true, "hideEdgesOnDrag": false, "hideNodesOnDrag": false}, "physics": {"enabled": true, "forceAtlas2Based": {"avoidOverlap": 0.7, "centralGravity": 0.01, "damping": 1, "gravitationalConstant": -50, "springConstant": 0.08, "springLength": 100}, "solver": "forceAtlas2Based", "stabilization": {"enabled": true, "fit": true, "iterations": 1000, "onlyDynamicEdges": false, "updateInterval": 50}}, "layout": {"randomSeed": 10, "improvedLayout": true}};
 
                   
 

diff --git a/docs/14-rsoz-lehrbuecher-ehrlich-indirect-citations.html b/docs/14-rsoz-lehrbuecher-ehrlich-indirect-citations.html
@@ -222,7 +222,7 @@ function highlightFilter(filter) {
             
         
 <center>
-<h1>None</h1>
+<h1></h1>
 </center>
 
 <!-- <link rel="stylesheet" href="../node_modules/vis/dist/vis.min.css" type="text/css" />
@@ -241,7 +241,7 @@ function highlightFilter(filter) {
 
 
         <center>
-          <h1>None</h1>
+          <h1></h1>
         </center>
         <style type="text/css">
 
